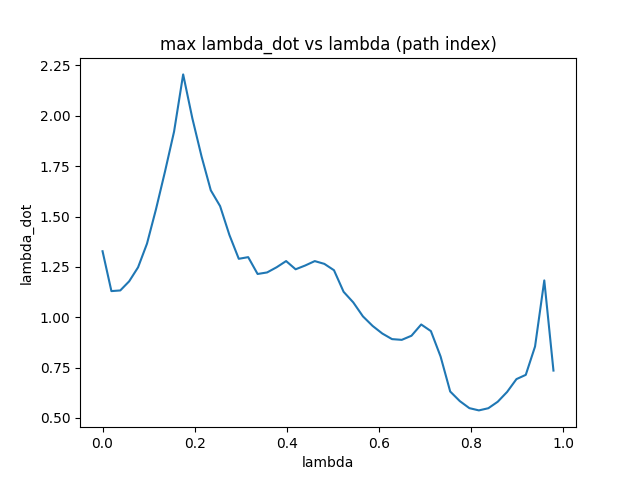
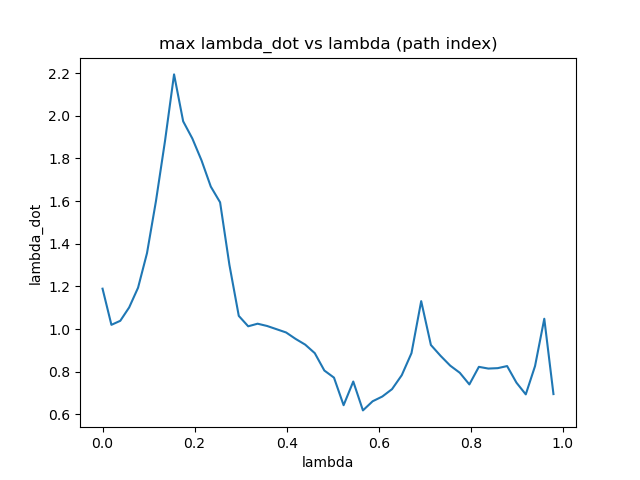
dual arm

diff --git a/Jacobian_comparison/dual_arm_opt.py b/Jacobian_comparison/dual_arm_opt.py
@@ -4,12 +4,15 @@ import sys, traceback, time
 from general_robotics_toolbox import *
 import matplotlib.pyplot as plt
 from scipy.optimize import minimize
+from qpsolvers import solve_qp
 
 sys.path.append('../toolbox')
 from robot_def import *
 from lambda_calc import *
 
-def stepwise_optimize(q_init1,q_init2,curve,curve_normal):
+def stepwise_optimize(q_init1,q_init2,curve,curve_normal,base2_R,base2_p):
+	#curve_normal: expressed in second robot tool frame
+
 	q_all1=[q_init1]
 	q_out1=[q_init1]
 	q_all2=[q_init2]
@@ -22,101 +25,143 @@ def stepwise_optimize(q_init1,q_init2,curve,curve_normal):
 
 			while error_fb>0.1:
 
-				pose_now=fwd(q_all[-1])
-				error_fb=np.linalg.norm(pose_now.p-curve[i])+np.linalg.norm(pose_now.R[:,-1]-curve_normal[i])
+				pose1_now=fwd(q_all1[-1])
+				pose2_now=fwd(q_all2[-1])
+
+				pose2_base_now=fwd(q_all2[-1],base2_R,base2_p)
+
+				print(pose1_now.p-pose2_base_now.p-curve[i], np.linalg.norm(np.dot(pose2_base_now.R.T,pose1_now.R[:,-1])-curve_normal[i]))
+				error_fb=np.linalg.norm(pose1_now.p-pose2_base_now.p-curve[i])+np.linalg.norm(np.dot(pose2_base_now.R.T,pose1_now.R[:,-1])-curve_normal[i])
 				
+				########################################################first robot###########################################
 				w=0.2
 				Kq=.01*np.eye(6)    #small value to make sure positive definite
 				KR=np.eye(3)        #gains for position and orientation error
 
-				J=jacobian(q_all[-1])        #calculate current Jacobian
-				Jp=J[3:,:]
-				JR=J[:3,:] 
-				H=np.dot(np.transpose(Jp),Jp)+Kq+w*np.dot(np.transpose(JR),JR)
+				J1=jacobian(q_all1[-1])        #calculate current Jacobian
+				J1p=J1[3:,:]
+				J1R=J1[:3,:] 
+				H=np.dot(np.transpose(J1p),J1p)+Kq+w*np.dot(np.transpose(J1R),J1R)
 				H=(H+np.transpose(H))/2
 
-				vd=curve[i]-pose_now.p
-				k=np.cross(pose_now.R[:,-1],curve_normal[i])
+				vd=curve[i]-(pose1_now.p-pose2_base_now.p)
+				k=np.cross(pose1_now.R[:,-1],np.dot(pose2_base_now.R,curve_normal[i]))
 
 				k=k/np.linalg.norm(k)
-				theta=-np.arctan2(np.linalg.norm(np.cross(pose_now.R[:,-1],curve_normal[i])), np.dot(pose_now.R[:,-1],curve_normal[i]))
+				theta=-np.arctan2(np.linalg.norm(np.cross(pose1_now.R[:,-1],np.dot(pose2_base_now.R,curve_normal[i]))), np.dot(pose1_now.R[:,-1],np.dot(pose2_base_now.R,curve_normal[i])))
 
 				k=np.array(k)
 				s=np.sin(theta/2)*k         #eR2
 				wd=-np.dot(KR,s)
-				f=-np.dot(np.transpose(Jp),vd)-w*np.dot(np.transpose(JR),wd)
+				f=-np.dot(np.transpose(J1p),vd)-w*np.dot(np.transpose(J1R),wd)
 				qdot=solve_qp(H,f)
 
-				q_all.append(q_all[-1]+qdot)
-				# print(q_all[-1])
+				# q_all1.append(q_all1[-1]+qdot)
+
+				########################################################first robot###########################################
+				J2=jacobian(q_all2[-1])        #calculate current Jacobian, mapped to robot1 base frame
+				J2p=np.dot(base2_R,J2[3:,:])
+				J2R=np.dot(base2_R,J2[:3,:] )
+				H=np.dot(np.transpose(J2p),J2p)+Kq+w*np.dot(np.transpose(J2R),J2R)
+				H=(H+np.transpose(H))/2
+
+				vd=-vd
+				k=np.cross(pose2_base_now.R[:,-1],np.dot(pose2_base_now.R,-curve_normal[i]))
+
+				k=k/np.linalg.norm(k)
+				theta=-np.arctan2(np.linalg.norm(np.cross(pose2_base_now.R[:,-1],np.dot(pose2_base_now.R,-curve_normal[i]))), np.dot(pose2_base_now.R[:,-1],np.dot(pose2_base_now.R,-curve_normal[i])))
+
+				k=np.array(k)
+				s=np.sin(theta/2)*k         #eR2
+				wd=-np.dot(KR,s)
+				f=-np.dot(np.transpose(J2p),vd)-w*np.dot(np.transpose(J2R),wd)
+				qdot=solve_qp(H,f)
+
+				q_all2.append(q_all2[-1]+qdot)
 		except:
-			q_out.append(q_all[-1])
+			q_out1.append(q_all1[-1])
+			q_out2.append(q_all2[-1])
 			traceback.print_exc()
 			break
 
-		q_out.append(q_all[-1])
+		q_out1.append(q_all1[-1])
+		q_out2.append(q_all2[-1])
 
-	q_out=np.array(q_out)
-	return q_out
+	q_out1=np.array(q_out1)
+	q_out2=np.array(q_out2)
+	return q_out1, q_out2
 
 
 def main():
-	global joint_vel_limit, lam
 	###read actual curve
 	col_names=['q1', 'q2', 'q3','q4', 'q5', 'q6'] 
-	data = read_csv("curve_poses/curve_pose0/Curve_backproj_js0.csv", names=col_names)
+	data = read_csv("curve_poses/dual_arm/arm1_js.csv", names=col_names)
 	curve_q1=data['q1'].tolist()
 	curve_q2=data['q2'].tolist()
 	curve_q3=data['q3'].tolist()
 	curve_q4=data['q4'].tolist()
 	curve_q5=data['q5'].tolist()
 	curve_q6=data['q6'].tolist()
-	curve_js=np.vstack((curve_q1, curve_q2, curve_q3,curve_q4,curve_q5,curve_q6)).T
+	curve_js1=np.vstack((curve_q1, curve_q2, curve_q3,curve_q4,curve_q5,curve_q6)).T
+	q_init1=curve_js1[0]
+
+	col_names=['q1', 'q2', 'q3','q4', 'q5', 'q6'] 
+	data = read_csv("curve_poses/dual_arm/arm2_js.csv", names=col_names)
+	curve_q1=data['q1'].tolist()
+	curve_q2=data['q2'].tolist()
+	curve_q3=data['q3'].tolist()
+	curve_q4=data['q4'].tolist()
+	curve_q5=data['q5'].tolist()
+	curve_q6=data['q6'].tolist()
+	curve_js2=np.vstack((curve_q1, curve_q2, curve_q3,curve_q4,curve_q5,curve_q6)).T
+	q_init2=curve_js2[0]
+
+	col_names=['X', 'Y', 'Z','direction_x','direction_y','direction_z'] 
+	data = read_csv("curve_poses/dual_arm/relative_path.csv", names=col_names)
+	curve_x=data['X'].tolist()
+	curve_y=data['Y'].tolist()
+	curve_z=data['Z'].tolist()
+	curve_direction_x=data['direction_x'].tolist()
+	curve_direction_y=data['direction_y'].tolist()
+	curve_direction_z=data['direction_z'].tolist()
+	relative_path=np.vstack((curve_x, curve_y, curve_z)).T
+	relative_path_direction=np.vstack((curve_direction_x, curve_direction_y, curve_direction_z)).T
+
+	###second arm base pose
+	base2_R=np.array([[-1,0,0],[0,-1,0],[0,0,1]])
+	base2_p=np.array([6000,0,0])
 
 	joint_vel_limit=np.radians([110,90,90,150,120,235]*2)
 
 	###decrease curve density to simplify computation
 	step=1000	
-	curve_js=curve_js[0:-1:step]
+	relative_path=relative_path[0:-1:step]
+	relative_path_direction=relative_path_direction[0:-1:step]
+
+	###convert relative curve normal to robot2 tool frame
+	R2_tool=np.array([	[0,0,1],
+						[0,1,0],
+						[-1,0,0]])
+	R2_convert=np.dot(base2_R,R2_tool)
+	relative_path_direction_new=np.dot(R2_convert.T,relative_path_direction.T).T
+
 
 	curve_cs_p=[]
 	curve_cs_R=[]
 	###find path length
 	lam=[0]
-	for i in range(len(curve_js)-1):
-		pose_s=fwd(curve_js[i])
-		pose_e=fwd(curve_js[i+1])
-		lam.append(lam[-1]+np.linalg.norm(pose_e.p-pose_s.p))
-		curve_cs_p.append(pose_s.p)
-		curve_cs_R.append(pose_s.R)
-
-		if i==len(curve_js)-2:
-			curve_cs_p.append(pose_e.p)
-			curve_cs_R.append(pose_e.R)
+	for i in range(len(relative_path)-1):
+		lam.append(lam[-1]+np.linalg.norm(relative_path[i+1]-relative_path[i]))
 	###normalize lam
 	lam=np.array(lam)/lam[-1]
 
-	curve_cs_p=np.array(curve_cs_p)
-	curve_cs_R=np.array(curve_cs_R)
+	###stepwise qp solver
+	q_out1, q_out2=stepwise_optimize(q_init1,q_init2,relative_path,relative_path_direction_new,base2_R,base2_p)
 
-	###second arm base pose
-	base_R=np.array([[-1,0,0],[0,-1,0],[0,0,1]])
-	base_p=np.array([5000,0,0])
 
-	###path constraints, position constraint and curve normal constraint
-	cons = ({'type': 'eq', 'fun': lambda x:  fwd_all(x.reshape((-1,6*2))[:,:6]).p_all.flatten()-fwd_all(x.reshape((-1,6*2))[:,6:],base_R,base_p).p_all.flatten()-curve_cs_p.flatten()},
-			{'type': 'eq', 'fun': lambda x:  np.dot(fwd_all(x.reshape((-1,6*2))[:,:6]).R_all, fwd_all(x.reshape((-1,6*2))[:,6:],base_R,base_p).R_all.T)[:,:,-1].flatten()-curve_cs_R[:,:,-1].flatten()})
-	lowerer_limit=np.radians([-220.,-40.,-180.,-300.,-120.,-360.]*2)+0.001*np.ones(6*2)
-	upper_limit=np.radians([220.,160.,70.,300.,120.,360.]*2)-0.001*np.ones(6*2)
-	bnds=tuple(zip(lowerer_limit,upper_limit))*len(curve_js)
+	print(q_out1)
+	dlam_out=calc_lamdot(q_out1,lam[:len(q_out1)],joint_vel_limit[:6],1)
 
-	res = minimize(opt_fun, curve_js, method='SLSQP',tol=1e-10,bounds=bnds,constraints=cons)
-	###trust-constr not working
-	print(res)
-	print('originial: ',opt_fun(curve_js),'optimized: ',opt_fun(res.x.reshape((-1,6))))
-
-	# print(res.x.reshape((-1,6*2)))
-	dlam_out=calc_lamdot(res.x.reshape((-1,6*2)),lam,joint_vel_limit,1)
 
 
 	plt.plot(lam[:-1],dlam_out,label="lambda_dot_max")

diff --git a/toolbox/robot_def.py b/toolbox/robot_def.py
@@ -42,16 +42,19 @@ class Transform_all(object):
 		self.p_all=np.array(p_all)
 def jacobian(q):
 	return robotjacobian(ABB_def,q)
-def fwd(q):
-	return fwdkin(ABB_def,q)
+def fwd(q,base_R=np.eye(3),base_p=np.array([0,0,0])):
+	pose_temp=fwdkin(ABB_def,q)
+	pose_temp.p=np.dot(base_R,pose_temp.p)+base_p
+	pose_temp.R=np.dot(base_R,pose_temp.R)
+	return pose_temp
 
 def fwd_all(q_all,base_R=np.eye(3),base_p=np.array([0,0,0])):
 	pose_p_all=[]
 	pose_R_all=[]
 	for q in q_all:
-		pose_temp=fwd(q)
-		pose_p_all.append(np.dot(base_R,pose_temp.p)+base_p)
-		pose_R_all.append(np.dot(base_R,pose_temp.R))
+		pose_temp=fwd(q,base_R,base_p)
+		pose_p_all.append(pose_temp.p)
+		pose_R_all.append(pose_temp.R)
 
 	return Transform_all(pose_p_all,pose_R_all)
 
